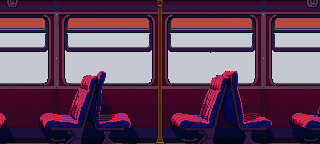
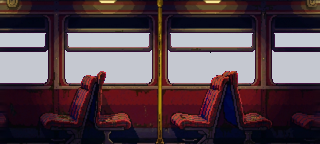
V64: Stages 9 and 12 (the train and the N47) repainted in Meshy
The train and the bus are built from pieces the game moves (the carriage wall,
doors that slide, the toilets, the bus deck and stairs, the scenery strips past
the windows), so each piece is repainted in place instead: same size, same
see-through glass, new paint (tools/v64/repaint.py). No code changes.

Claude-Session: https://claude.ai/code/session_01G9hG8uJMGeScPwqm8CwBsv

diff --git a/tools/v64/repaint.py b/tools/v64/repaint.py
@@ -1,0 +1,88 @@
+"""Repaint pieces of art in Meshy, same shapes, new look: python3 tools/v64/repaint.py <sheet> [--make]
+
+For stages built from pieces the game moves about (the train's carriage, doors and toilets; the bus deck; the scenery
+strips past the windows), each piece keeps its size and its see-through parts and only its paint changes, so the game
+code is untouched. SHEETS lists pieces laid out on one 16:9 picture (see-through parts filled flat magenta); --make sends
+it to Meshy (9 credits) with the style pictures, and without --make the last Meshy result (tools/v64/img/repaint/<sheet>.webp)
+is cut back into the pieces: each is shrunk to its old size, and its old alpha is kept exactly, over web/bg/<path>.png.
+The old pieces are kept in tools/v64/img/repaint/old/ the first time, and are always what the layout is built from.
+"""
+import os, shutil, subprocess, sys
+import numpy as np
+from PIL import Image
+
+HERE = os.path.dirname(os.path.abspath(__file__)); ROOT = os.path.dirname(os.path.dirname(HERE))
+BG = os.path.join(ROOT, 'web', 'bg'); R = os.path.join(HERE, 'img', 'repaint'); OLD = os.path.join(R, 'old')
+os.makedirs(OLD, exist_ok=True)
+PW, PH = 1376, 768
+# sheet -> (scale, [(path, x, y)], what it is)
+SHEETS = {
+    'train_wall': (4, [('nightlife/tr_wall', 48, 96)],
+                   "the inside wall of a 2006 London suburban commuter train carriage at night, seen straight on: blue and grey moquette seats in a row, grey plastic wall panels, yellow grab poles, signs reading PLEASE OFFER YOUR SEAT and NO SMOKING ON THIS TRAIN, the carriage number, windows"),
+    'train_bits': (4, [('nightlife/tr_doorframe', 0, 96), ('nightlife/tr_end', 278, 96), ('nightlife/tr_toilet', 556, 96), ('nightlife/tr_door', 834, 192), ('nightlife/bus_stairs', 1112, 96)],
+                   "five separate parts from the inside of a 2006 London commuter train and a night bus, side by side: a door frame, the carriage end wall with its door, a train toilet door with a light above it, a pair of sliding train doors with yellow stripes and windows, and the night bus staircase"),
+    'bus_deck': (4, [('nightlife/bus_deck', 48, 96)],
+                 "the top deck of a London night bus at 2am, seen from inside, side on: red and blue tartan moquette seats, a yellow grab pole, the bus's red side panels and windows, dim interior lights"),
+    'scenery': (3.44, [('nightlife/sc_suburb', 0, 40), ('nightlife/sc_platform', 0, 400)],
+                "two separate long strips of scenery seen from a train window at night, one above the other: a row of south-east London terraced houses with lit windows under a starry sky, and a lit suburban railway platform with lamps, benches and a few waiting commuters"),
+    'highst': (3.44, [('nightlife/sc_highst', 0, 220)],
+               "a long strip of a south London high street at night seen from a bus window: a row of lit shop fronts reading KEBABS, FRIED CHICKEN, PHONES UNLOCKED, OFF LICENCE and BOOKMAKER, flats above, the pavement in front"),
+}
+
+
+WRAP = {'nightlife/sc_suburb', 'nightlife/sc_platform', 'nightlife/sc_highst', 'nightlife/bus_deck', 'nightlife/tr_wall'}
+
+
+def old(path):
+    o = os.path.join(OLD, path.replace('/', '__') + '.png')
+    if not os.path.exists(o): shutil.copy(os.path.join(BG, path + '.png'), o)
+    return Image.open(o).convert('RGBA')
+
+
+def layout(name):
+    k, pieces, what = SHEETS[name]
+    sheet = Image.new('RGB', (PW, PH), (40, 40, 46))
+    for path, x, y in pieces:
+        im = old(path); big = im.resize((round(im.width * k), round(im.height * k)), Image.NEAREST)
+        a = np.asarray(big); rgb = a[..., :3].copy(); rgb[a[..., 3] < 128] = (255, 0, 255)
+        sheet.paste(Image.fromarray(rgb), (x, y))
+    return sheet, what
+
+
+def make(name):
+    sheet, what = layout(name)
+    work = os.environ.get('MESHY_WORK', '/tmp/meshy_work'); os.makedirs(os.path.join(work, 'repaint'), exist_ok=True)
+    sp = os.path.join(work, 'repaint', name + '_layout.png'); sheet.save(sp)
+    prompt = ("Repaint the first image as rich, detailed, gritty 16-bit pixel art in exactly the style, pixel size, texture and moody night lighting of the other images. "
+              f"It shows {what}. Keep every shape exactly where it is and exactly the same size: the same outlines, the same layout, the same text. "
+              "Every flat bright magenta area must stay exactly flat bright magenta (#FF00FF), untouched, with crisp edges. The plain dark grey background stays plain dark grey. No people other than any already there.")
+    subprocess.run([sys.executable, os.path.join(HERE, 'meshy_free.py'), 'repaint', name, prompt, sp + ',street,alley'], check=True,
+                   env=dict(os.environ, MESHY_WORK=work))
+    Image.open(os.path.join(work, 'repaint', name + '_raw.png')).save(os.path.join(R, name + '.webp'), quality=95, method=6)
+
+
+def cut(name):
+    k, pieces, _ = SHEETS[name]
+    new = Image.open(os.path.join(R, name + '.webp')).convert('RGB').resize((PW, PH))
+    for path, x, y in pieces:   # Meshy keeps the layout where it was put
+        im = old(path); w, h = round(im.width * k), round(im.height * k)
+        part = new.crop((x, y, x + w, y + h)).resize(im.size, Image.LANCZOS)
+        o = np.asarray(im).astype(np.int32); a = o[..., 3]; p = np.asarray(part).astype(np.int32)
+        out = np.dstack([p, a])
+        # see-through parts (window glass, sky) keep their old paint; so does any magenta that bled into an edge
+        mag = (p[..., 0] - p[..., 1] > 55) & (p[..., 2] - p[..., 1] > 55)
+        keep = (a < 255) | mag
+        out[keep] = o[keep]
+        if path in WRAP:   # it repeats side by side: ease both ends to the same column so the repeat has no edge
+            n = 8; f = out[..., :3].astype(np.float32); mid = (f[:, :1] + f[:, -1:]) / 2
+            for i in range(n):
+                t_ = i / n; f[:, i] = mid[:, 0] * (1 - t_) + f[:, i] * t_; f[:, -1 - i] = mid[:, 0] * (1 - t_) + f[:, -1 - i] * t_
+            out[..., :3] = np.where(keep[..., None], out[..., :3], f.round())
+        Image.fromarray(out.astype(np.uint8), 'RGBA').save(os.path.join(BG, path + '.png'))
+        print(path, im.size)
+
+
+if __name__ == '__main__':
+    for n in [a for a in sys.argv[1:] if not a.startswith('--')] or list(SHEETS):
+        if '--make' in sys.argv: make(n)
+        if os.path.exists(os.path.join(R, n + '.webp')): cut(n)
